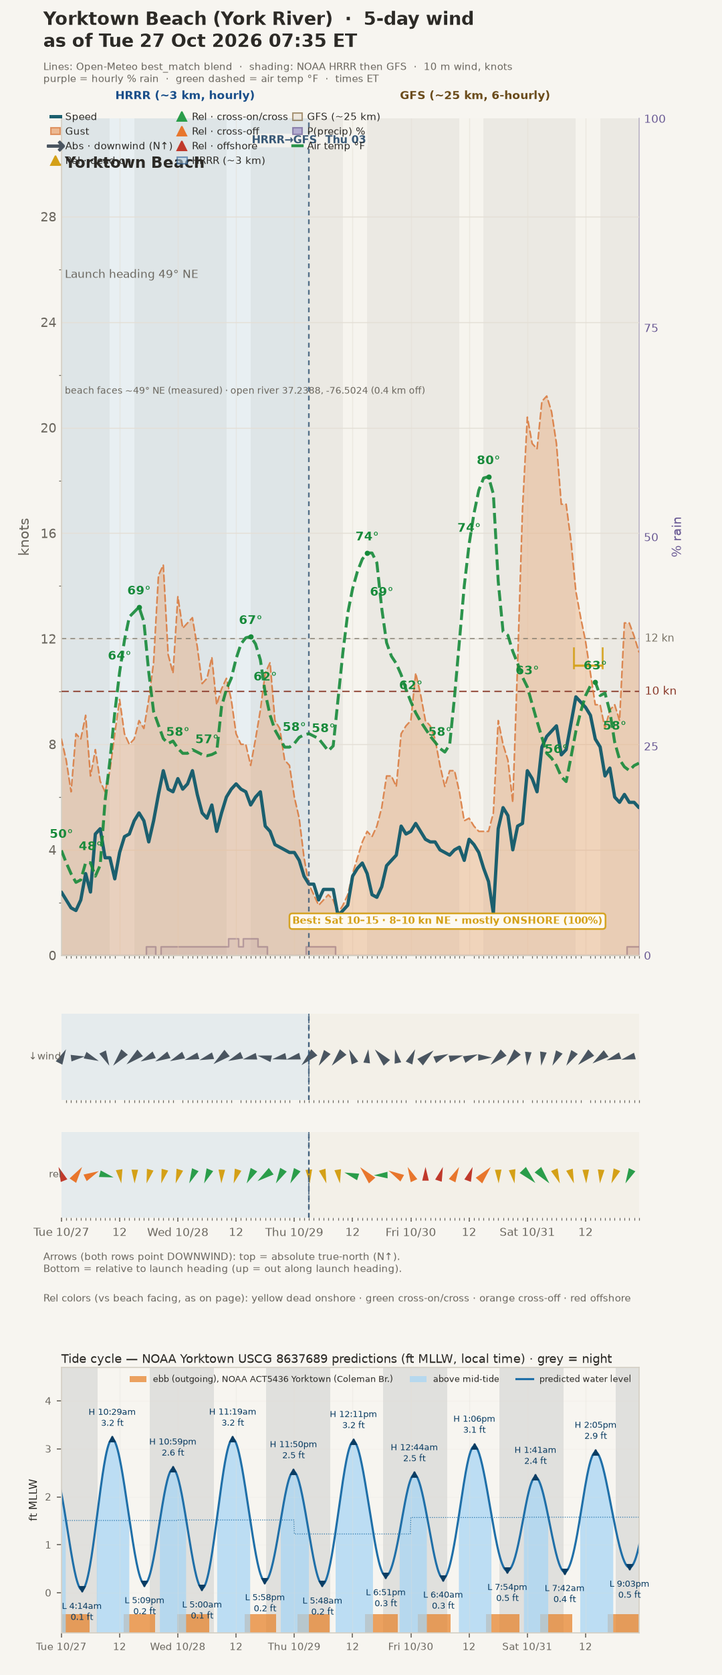
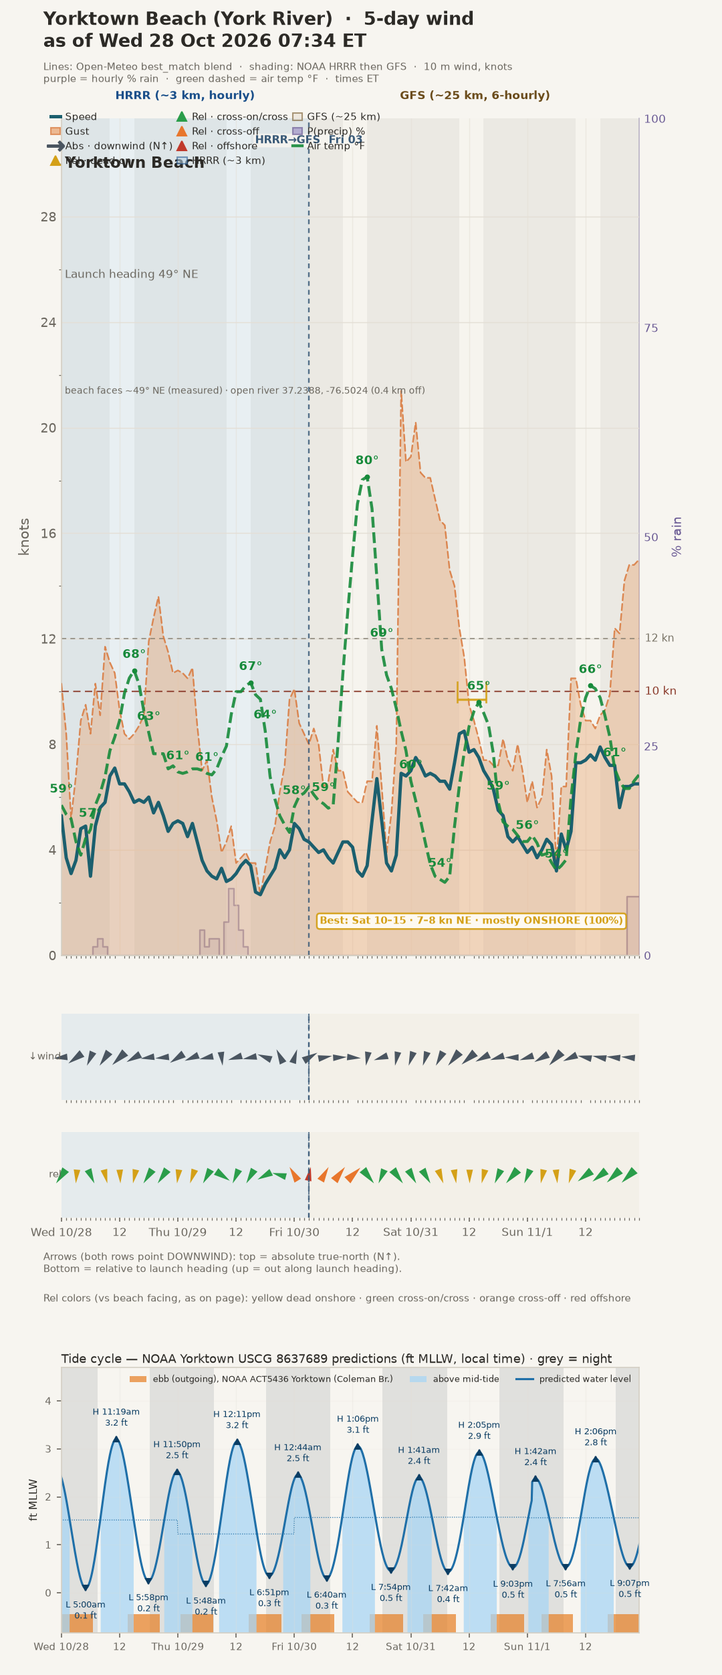
Update wind pages 2026-10-28 07:35

diff --git a/york-river.html b/york-river.html
@@ -7,8 +7,8 @@ table{border-collapse:collapse;font-size:14px}td,th{padding:3px 9px;border-botto
 .warn{background:#fff4e0;border-left:4px solid #d4a017;padding:6px 10px;margin:8px 0}.note{background:#e8f1f8;border-left:4px solid #1f6fa8;padding:6px 10px;margin:8px 0}</style></head><body><main>
 <p><a href="va-lakes-wind.html">&larr; all locations (va-lakes-wind.html)</a> · jump to: <a href="#croaker">Croaker Landing Pier</a> · <a href="#yorktown">Yorktown Beach</a></p>
 <h1>York River · wind + tide · Croaker Landing Pier &amp; Yorktown Beach</h1>
-<div class="sub">Water 63.1°F measured at NOAA Yorktown USCG 8637689, as of Tue 27 Oct 2026 07:30 ET<br>Mark's directions: <b>N best · E good · W maybe/okay · S and SW won't work</b> (blow over land, no-go); at each beach anything dead offshore vs its measured facing is also no-go.<br>
-Data: Open-Meteo best_match (HRRR, then GFS) · as of Tue 27 Oct 2026 07:35 ET</div>
+<div class="sub">Water 63.5°F measured at NOAA Yorktown USCG 8637689, as of Wed 28 Oct 2026 07:24 ET<br>Mark's directions: <b>N best · E good · W maybe/okay · S and SW won't work</b> (blow over land, no-go); at each beach anything dead offshore vs its measured facing is also no-go.<br>
+Data: Open-Meteo best_match (HRRR, then GFS) · as of Wed 28 Oct 2026 07:34 ET</div>
 
 <h2 id="croaker">1 · York River State Park · Croaker Landing Pier</h2>
 <div class="sub">Croaker Landing Pier ramp 37.42719, -76.72458 · <b>possible launch beach (Mark), just S of the pier: 37.42737, -76.72545, faces ~7° N (measured from imagery)</b> · Seining Beach 37.41459, -76.71052 (tides) · forecast target: open river 37.425, -76.700</div>
@@ -18,22 +18,22 @@ Data: Open-Meteo best_match (HRRR, then GFS) · as of Tue 27 Oct 2026 07:35 ET</
 <img src="york-river-16day.png" alt="Croaker Landing Pier 16-day wind + tide chart"></picture>
 <h3>Daily max (knots) + tides</h3>
 <p class="sub">Tides: Seining Beach (NOAA station 8636969 Roane Point, 2.2 mi away) · NOAA CO-OPS predictions, MLLW, local time. Good wind + tide = 8 AM–6 PM hours with wind ≥10 kn, not offshore vs the 7° beach facing and not S/SW, while the tide is above the day's mid-tide level.</p>
-<table><tr><th>Day</th><th>Max wind</th><th>Max gust</th><th>Dir at max</th><th>Hour</th><th>vs beach</th><th>High</th><th>Low</th><th>Mark's rating</th><th>Good wind + tide</th></tr><tr><td>Tue Oct 27</td><td>7.3</td><td>11.9</td><td>E (86°)</td><td>9 PM</td><td style='color:#2a9d4a;font-weight:600'>cross</td><td>12:07 PM 3.9 ft</td><td>5:48 AM 0.0 ft<br>6:44 PM 0.2 ft</td><td style='color:#2a9d4a;font-weight:600'>good (light)</td><td></td></tr><tr><td>Wed Oct 28</td><td>7.1</td><td>11.1</td><td>E (90°)</td><td>12 AM</td><td style='color:#2a9d4a;font-weight:600'>cross</td><td>12:30 AM 3.1 ft<br>12:54 PM 3.9 ft</td><td>6:33 AM 0.0 ft<br>7:33 PM 0.2 ft</td><td style='color:#2a9d4a;font-weight:600'>good (light)</td><td></td></tr><tr><td>Thu Oct 29</td><td>4.5</td><td>10.5</td><td>S (173°)</td><td>10 PM</td><td style='color:#c0392b;font-weight:600'>OFFSHORE</td><td>1:19 AM 3.0 ft<br>1:46 PM 3.8 ft</td><td>7:21 AM 0.1 ft<br>8:28 PM 0.3 ft</td><td style='color:#c0392b;font-weight:600'>no (light)</td><td></td></tr><tr><td>Fri Oct 30</td><td>4.7</td><td>21.0</td><td>N (2°)</td><td>10 PM</td><td style='color:#d4a017;font-weight:600'>onshore</td><td>2:13 AM 2.9 ft<br>2:43 PM 3.7 ft</td><td>8:15 AM 0.2 ft<br>9:29 PM 0.4 ft</td><td style='color:#1e7d36;font-weight:600'>best (light)</td><td></td></tr><tr><td>Sat Oct 31</td><td>7.5</td><td>21.2</td><td>NE (39°)</td><td>10 AM</td><td style='color:#2a9d4a;font-weight:600'>cross-on</td><td>3:12 AM 2.8 ft<br>3:43 PM 3.5 ft</td><td>9:18 AM 0.3 ft<br>10:33 PM 0.4 ft</td><td style='color:#2a9d4a;font-weight:600'>good (light)</td><td></td></tr><tr><td>Sun Nov 01</td><td>8.0</td><td>20.2</td><td>SE (124°)</td><td>2 PM</td><td style='color:#e67e22;font-weight:600'>cross-off</td><td>3:16 AM 2.8 ft<br>3:46 PM 3.3 ft</td><td>9:29 AM 0.4 ft<br>10:37 PM 0.4 ft</td><td style='color:#d4a017;font-weight:600'>maybe (light)</td><td></td></tr><tr><td>Mon Nov 02</td><td>10.4</td><td>24.7</td><td>SE (137°)</td><td>11 AM</td><td style='color:#e67e22;font-weight:600'>cross-off</td><td>4:24 AM 2.8 ft<br>4:54 PM 3.1 ft</td><td>10:42 AM 0.4 ft<br>11:38 PM 0.4 ft</td><td style='color:#d4a017;font-weight:600'>maybe</td><td></td></tr><tr><td>Tue Nov 03</td><td>7.9</td><td>20.8</td><td>NNW (332°)</td><td>3 PM</td><td style='color:#2a9d4a;font-weight:600'>cross-on</td><td>5:40 AM 2.9 ft<br>6:06 PM 3.0 ft</td><td>11:56 AM 0.4 ft</td><td style='color:#2a9d4a;font-weight:600'>good (light)</td><td></td></tr><tr><td>Wed Nov 04</td><td>11.1</td><td>17.9</td><td>NNE (27°)</td><td>5 AM</td><td style='color:#d4a017;font-weight:600'>onshore</td><td>6:49 AM 3.1 ft<br>7:09 PM 3.0 ft</td><td>12:35 AM 0.3 ft<br>1:02 PM 0.4 ft</td><td style='color:#1e7d36;font-weight:600'>best</td><td>✅ 8 AM–10 AM, 4 PM–6 PM</td></tr><tr><td>Thu Nov 05</td><td>7.5</td><td>24.5</td><td>NNE (31°)</td><td>12 AM</td><td style='color:#2a9d4a;font-weight:600'>cross-on</td><td>7:46 AM 3.3 ft<br>8:00 PM 2.9 ft</td><td>1:25 AM 0.3 ft<br>2:01 PM 0.3 ft</td><td style='color:#2a9d4a;font-weight:600'>good (light)</td><td></td></tr><tr><td>Fri Nov 06</td><td>8.2</td><td>17.9</td><td>SW (236°)</td><td>1 PM</td><td style='color:#e67e22;font-weight:600'>cross-off</td><td>8:35 AM 3.4 ft<br>8:47 PM 2.9 ft</td><td>2:11 AM 0.2 ft<br>2:55 PM 0.3 ft</td><td style='color:#c0392b;font-weight:600'>no (light)</td><td></td></tr><tr><td>Sat Nov 07</td><td>4.4</td><td>21.8</td><td>WSW (241°)</td><td>1 PM</td><td style='color:#e67e22;font-weight:600'>cross-off</td><td>9:19 AM 3.5 ft<br>9:30 PM 2.9 ft</td><td>2:55 AM 0.2 ft<br>3:44 PM 0.2 ft</td><td style='color:#c0392b;font-weight:600'>no (light)</td><td></td></tr><tr><td>Sun Nov 08</td><td>6.3</td><td>4.5</td><td>NNE (30°)</td><td>1 PM</td><td style='color:#2a9d4a;font-weight:600'>cross-on</td><td>10:00 AM 3.5 ft<br>10:12 PM 2.8 ft</td><td>3:37 AM 0.1 ft<br>4:28 PM 0.2 ft</td><td style='color:#2a9d4a;font-weight:600'>good (light)</td><td></td></tr><tr><td>Mon Nov 09</td><td>5.2</td><td>3.7</td><td>ENE (70°)</td><td>2 PM</td><td style='color:#2a9d4a;font-weight:600'>cross-on</td><td>10:38 AM 3.5 ft<br>10:51 PM 2.8 ft</td><td>4:17 AM 0.2 ft<br>5:08 PM 0.2 ft</td><td style='color:#2a9d4a;font-weight:600'>good (light)</td><td></td></tr><tr><td>Tue Nov 10</td><td>10.0</td><td>8.9</td><td>SSW (213°)</td><td>2 PM</td><td style='color:#e67e22;font-weight:600'>cross-off</td><td>11:14 AM 3.4 ft<br>11:29 PM 2.7 ft</td><td>4:54 AM 0.2 ft<br>5:45 PM 0.3 ft</td><td style='color:#c0392b;font-weight:600'>no</td><td></td></tr><tr><td>Wed Nov 11</td><td>11.4</td><td>17.7</td><td>NW (313°)</td><td>12 PM</td><td style='color:#2a9d4a;font-weight:600'>cross-on</td><td>11:50 AM 3.3 ft</td><td>5:29 AM 0.3 ft<br>6:22 PM 0.3 ft</td><td style='color:#2a9d4a;font-weight:600'>good</td><td>✅ 11 AM–4 PM</td></tr></table>
-<h3>Good wind + tide windows</h3><ul><li>Wed Nov 04: 8 AM–10 AM, 4 PM–6 PM</li><li>Wed Nov 11: 11 AM–4 PM</li></ul>
+<table><tr><th>Day</th><th>Max wind</th><th>Max gust</th><th>Dir at max</th><th>Hour</th><th>vs beach</th><th>High</th><th>Low</th><th>Mark's rating</th><th>Good wind + tide</th></tr><tr><td>Wed Oct 28</td><td>6.2</td><td>10.5</td><td>ESE (107°)</td><td>7 PM</td><td style='color:#2a9d4a;font-weight:600'>cross</td><td>12:30 AM 3.1 ft<br>12:54 PM 3.9 ft</td><td>6:33 AM 0.0 ft<br>7:33 PM 0.2 ft</td><td style='color:#2a9d4a;font-weight:600'>good (light)</td><td></td></tr><tr><td>Thu Oct 29</td><td>4.9</td><td>8.2</td><td>SSE (164°)</td><td>11 PM</td><td style='color:#e67e22;font-weight:600'>cross-off</td><td>1:19 AM 3.0 ft<br>1:46 PM 3.8 ft</td><td>7:21 AM 0.1 ft<br>8:28 PM 0.3 ft</td><td style='color:#c0392b;font-weight:600'>no (light)</td><td></td></tr><tr><td>Fri Oct 30</td><td>6.9</td><td>22.7</td><td>NNE (16°)</td><td>10 PM</td><td style='color:#d4a017;font-weight:600'>onshore</td><td>2:13 AM 2.9 ft<br>2:43 PM 3.7 ft</td><td>8:15 AM 0.2 ft<br>9:29 PM 0.4 ft</td><td style='color:#1e7d36;font-weight:600'>best (light)</td><td></td></tr><tr><td>Sat Oct 31</td><td>6.2</td><td>18.7</td><td>NE (41°)</td><td>10 AM</td><td style='color:#2a9d4a;font-weight:600'>cross-on</td><td>3:12 AM 2.8 ft<br>3:43 PM 3.5 ft</td><td>9:18 AM 0.3 ft<br>10:33 PM 0.4 ft</td><td style='color:#2a9d4a;font-weight:600'>good (light)</td><td></td></tr><tr><td>Sun Nov 01</td><td>7.2</td><td>14.8</td><td>ESE (114°)</td><td>4 PM</td><td style='color:#2a9d4a;font-weight:600'>cross</td><td>3:16 AM 2.8 ft<br>3:46 PM 3.3 ft</td><td>9:29 AM 0.4 ft<br>10:37 PM 0.4 ft</td><td style='color:#d4a017;font-weight:600'>maybe (light)</td><td></td></tr><tr><td>Mon Nov 02</td><td>7.9</td><td>22.9</td><td>ENE (57°)</td><td>11 PM</td><td style='color:#2a9d4a;font-weight:600'>cross-on</td><td>4:24 AM 2.8 ft<br>4:54 PM 3.1 ft</td><td>10:42 AM 0.4 ft<br>11:38 PM 0.4 ft</td><td style='color:#2a9d4a;font-weight:600'>good (light)</td><td></td></tr><tr><td>Tue Nov 03</td><td>11.3</td><td>28.0</td><td>NE (41°)</td><td>5 AM</td><td style='color:#2a9d4a;font-weight:600'>cross-on</td><td>5:40 AM 2.9 ft<br>6:06 PM 3.0 ft</td><td>11:56 AM 0.4 ft</td><td style='color:#2a9d4a;font-weight:600'>good (light)</td><td></td></tr><tr><td>Wed Nov 04</td><td>10.5</td><td>27.2</td><td>E (91°)</td><td>11 AM</td><td style='color:#2a9d4a;font-weight:600'>cross</td><td>6:49 AM 3.1 ft<br>7:09 PM 3.0 ft</td><td>12:35 AM 0.3 ft<br>1:02 PM 0.4 ft</td><td style='color:#2a9d4a;font-weight:600'>good</td><td>✅ 6 PM–7 PM</td></tr><tr><td>Thu Nov 05</td><td>11.6</td><td>33.2</td><td>SE (138°)</td><td>4 PM</td><td style='color:#e67e22;font-weight:600'>cross-off</td><td>7:46 AM 3.3 ft<br>8:00 PM 2.9 ft</td><td>1:25 AM 0.3 ft<br>2:01 PM 0.3 ft</td><td style='color:#d4a017;font-weight:600'>maybe</td><td>✅ 5 PM–6 PM</td></tr><tr><td>Fri Nov 06</td><td>12.5</td><td>26.0</td><td>SSW (203°)</td><td>2 AM</td><td style='color:#c0392b;font-weight:600'>OFFSHORE</td><td>8:35 AM 3.4 ft<br>8:47 PM 2.9 ft</td><td>2:11 AM 0.2 ft<br>2:55 PM 0.3 ft</td><td style='color:#d4a017;font-weight:600'>maybe</td><td></td></tr><tr><td>Sat Nov 07</td><td>8.8</td><td>21.6</td><td>NNW (347°)</td><td>12 AM</td><td style='color:#d4a017;font-weight:600'>onshore</td><td>9:19 AM 3.5 ft<br>9:30 PM 2.9 ft</td><td>2:55 AM 0.2 ft<br>3:44 PM 0.2 ft</td><td style='color:#1e7d36;font-weight:600'>best (light)</td><td></td></tr><tr><td>Sun Nov 08</td><td>8.8</td><td>23.7</td><td>N (6°)</td><td>12 PM</td><td style='color:#d4a017;font-weight:600'>onshore</td><td>10:00 AM 3.5 ft<br>10:12 PM 2.8 ft</td><td>3:37 AM 0.1 ft<br>4:28 PM 0.2 ft</td><td style='color:#1e7d36;font-weight:600'>best (light)</td><td></td></tr><tr><td>Mon Nov 09</td><td>5.8</td><td>15.4</td><td>NNE (26°)</td><td>11 AM</td><td style='color:#d4a017;font-weight:600'>onshore</td><td>10:38 AM 3.5 ft<br>10:51 PM 2.8 ft</td><td>4:17 AM 0.2 ft<br>5:08 PM 0.2 ft</td><td style='color:#2a9d4a;font-weight:600'>good (light)</td><td></td></tr><tr><td>Tue Nov 10</td><td>5.2</td><td>3.9</td><td>ESE (110°)</td><td>4 PM</td><td style='color:#2a9d4a;font-weight:600'>cross</td><td>11:14 AM 3.4 ft<br>11:29 PM 2.7 ft</td><td>4:54 AM 0.2 ft<br>5:45 PM 0.3 ft</td><td style='color:#2a9d4a;font-weight:600'>good (light)</td><td></td></tr><tr><td>Wed Nov 11</td><td>10.8</td><td>18.9</td><td>ESE (103°)</td><td>8 PM</td><td style='color:#2a9d4a;font-weight:600'>cross</td><td>11:50 AM 3.3 ft</td><td>5:29 AM 0.3 ft<br>6:22 PM 0.3 ft</td><td style='color:#2a9d4a;font-weight:600'>good (light)</td><td></td></tr><tr><td>Thu Nov 12</td><td>9.7</td><td>28.2</td><td>ESE (116°)</td><td>1 AM</td><td style='color:#2a9d4a;font-weight:600'>cross</td><td>12:07 AM 2.6 ft<br>12:28 PM 3.2 ft</td><td>6:03 AM 0.3 ft<br>7:00 PM 0.4 ft</td><td style='color:#d4a017;font-weight:600'>maybe (light)</td><td></td></tr></table>
+<h3>Good wind + tide windows</h3><ul><li>Wed Nov 04: 6 PM–7 PM</li><li>Thu Nov 05: 5 PM–6 PM</li></ul>
 <h3>Map</h3><img src="lake-map-york-river.png" alt="York River SP / Croaker Landing Pier map">
 
 <h2 id="yorktown">2 · Yorktown Beach (Water St, Yorktown)</h2>
 <div class="note"><b>No Yorktown State Park exists; this is Yorktown Beach</b> — York County's public beach on Water St along the Riverwalk, just downriver (SE) of the Coleman Bridge.</div>
 <div class="sub">Beach center 37.2364, -76.5058 · <b>faces ~49° NE</b> (shoreline measured from Esri imagery, ±10°) · forecast target: open river 37.2388, -76.5024 (0.4 km offshore) · tides: NOAA Yorktown USCG 8637689 (harmonic, 6-min predictions) · current: NOAA ACT5436 Yorktown (by the Coleman Bridge)<br>
 With this facing: N and E are cross-onshore (N best, E good per Mark), NE dead onshore, NW cross-shore (good), W cross-off (maybe), S/SW blow off the land (no).</div>
-<div class="warn">Local windsurf blog: best in <b>E/NE on an outgoing (ebb) tide</b> · strongest currents are near the Coleman Bridge; wind against current gets rough, stay down-current of the bridge · parking is <b>free</b>: Riverwalk Landing Parking Terrace, 330 Water St (lower level 3-h limit, upper deck unlimited) and county lots (York Hall, Courthouse, Admin Bldg) — no grass/side-street parking · beach rules: no dogs, alcohol, glass, grills, bonfires; no climbing/fishing on the rocks; Apr 1–Oct 31 groups of 10+ need a permit 10 AM–4 PM weekends; no posted rule on windsurfing found, so give swimmers a wide berth (it is a swimming beach) · rock breakwaters / pocket beaches along the shore · busy boat traffic, the shipping channel and Navy traffic (Naval Weapons Station Yorktown, Coast Guard Training Center) are close offshore · Water 63.1°F measured at NOAA Yorktown USCG 8637689, as of Tue 27 Oct 2026 07:30 ET</div>
+<div class="warn">Local windsurf blog: best in <b>E/NE on an outgoing (ebb) tide</b> · strongest currents are near the Coleman Bridge; wind against current gets rough, stay down-current of the bridge · parking is <b>free</b>: Riverwalk Landing Parking Terrace, 330 Water St (lower level 3-h limit, upper deck unlimited) and county lots (York Hall, Courthouse, Admin Bldg) — no grass/side-street parking · beach rules: no dogs, alcohol, glass, grills, bonfires; no climbing/fishing on the rocks; Apr 1–Oct 31 groups of 10+ need a permit 10 AM–4 PM weekends; no posted rule on windsurfing found, so give swimmers a wide berth (it is a swimming beach) · rock breakwaters / pocket beaches along the shore · busy boat traffic, the shipping channel and Navy traffic (Naval Weapons Station Yorktown, Coast Guard Training Center) are close offshore · Water 63.5°F measured at NOAA Yorktown USCG 8637689, as of Wed 28 Oct 2026 07:24 ET</div>
 <h3>5-day</h3><picture><source media="(max-width:700px) and (orientation:portrait)" srcset="yorktown-beach-5day-portrait.png">
 <img src="yorktown-beach-5day.png" alt="Yorktown Beach 5-day wind + tide chart"></picture><h3>16-day</h3><picture><source media="(max-width:700px) and (orientation:portrait)" srcset="yorktown-beach-16day-portrait.png">
 <img src="yorktown-beach-16day.png" alt="Yorktown Beach 16-day wind + tide chart"></picture>
 <h3>Daily max (knots) + tides + current</h3>
 <p class="sub">Tides: NOAA Yorktown USCG 8637689 predictions, MLLW, local time. Current: NOAA ACT5436 Yorktown max flood/ebb/slack. Good wind + tide = 8 AM–6 PM hours with wind ≥10 kn, Mark's rating not "no" (S/SW and anything offshore of the 49° facing), tide above the day's mid-tide; "(ebb ✔)" = whole window on the outgoing tide (the blog's preference), "(part ebb)" = partly.</p>
-<table><tr><th>Day</th><th>Max wind</th><th>Max gust</th><th>Dir at max</th><th>Hour</th><th>vs beach</th><th>High</th><th>Low</th><th>Current (Coleman Br.)</th><th>Mark's rating</th><th>Good wind + tide</th></tr><tr><td>Tue Oct 27</td><td>7.0</td><td>14.8</td><td>ENE (64°)</td><td>9 PM</td><td style='color:#d4a017;font-weight:600'>onshore</td><td>10:29 AM 3.2 ft<br>10:59 PM 2.6 ft</td><td>4:14 AM 0.1 ft<br>5:09 PM 0.2 ft</td><td>ebb 2:58 AM 2.6 kn<br>slack 5:49 AM<br>flood 8:57 AM 2.5 kn<br>slack 12:51 PM<br>ebb 4:08 PM 2.0 kn<br>slack 7:20 PM<br>flood 9:13 PM 1.0 kn<br>slack 11:43 PM</td><td style='color:#2a9d4a;font-weight:600'>good (light)</td><td></td></tr><tr><td>Wed Oct 28</td><td>7.0</td><td>13.6</td><td>ENE (73°)</td><td>3 AM</td><td style='color:#2a9d4a;font-weight:600'>cross-on</td><td>11:19 AM 3.2 ft<br>11:50 PM 2.5 ft</td><td>5:00 AM 0.1 ft<br>5:58 PM 0.2 ft</td><td>ebb 3:41 AM 2.6 kn<br>slack 6:33 AM<br>flood 9:46 AM 2.5 kn<br>slack 1:40 PM<br>ebb 5:01 PM 2.0 kn<br>slack 8:20 PM<br>flood 10:08 PM 0.9 kn</td><td style='color:#2a9d4a;font-weight:600'>good (light)</td><td></td></tr><tr><td>Thu Oct 29</td><td>4.9</td><td>8.7</td><td>S (189°)</td><td>10 PM</td><td style='color:#e67e22;font-weight:600'>cross-off</td><td>12:11 PM 3.2 ft</td><td>5:48 AM 0.2 ft<br>6:51 PM 0.3 ft</td><td>slack 12:32 AM<br>ebb 4:30 AM 2.4 kn<br>slack 7:23 AM<br>flood 10:39 AM 2.5 kn<br>slack 2:33 PM<br>ebb 5:59 PM 1.9 kn<br>slack 9:24 PM<br>flood 11:06 PM 0.8 kn</td><td style='color:#c0392b;font-weight:600'>no (light)</td><td></td></tr><tr><td>Fri Oct 30</td><td>5.6</td><td>16.9</td><td>NE (56°)</td><td>7 PM</td><td style='color:#d4a017;font-weight:600'>onshore</td><td>12:44 AM 2.5 ft<br>1:06 PM 3.1 ft</td><td>6:40 AM 0.3 ft<br>7:54 PM 0.5 ft</td><td>slack 1:29 AM<br>ebb 5:27 AM 2.2 kn<br>slack 8:18 AM<br>flood 11:31 AM 2.4 kn<br>slack 3:28 PM<br>ebb 6:59 PM 1.9 kn<br>slack 10:25 PM</td><td style='color:#2a9d4a;font-weight:600'>good (light)</td><td></td></tr><tr><td>Sat Oct 31</td><td>9.8</td><td>21.2</td><td>NE (38°)</td><td>10 AM</td><td style='color:#d4a017;font-weight:600'>onshore</td><td>1:41 AM 2.4 ft<br>2:05 PM 2.9 ft</td><td>7:42 AM 0.4 ft<br>9:03 PM 0.5 ft</td><td>flood 12:03 AM 0.8 kn<br>slack 2:35 AM<br>ebb 6:32 AM 1.9 kn<br>slack 9:19 AM<br>flood 12:25 PM 2.2 kn<br>slack 4:27 PM<br>ebb 8:02 PM 1.8 kn<br>slack 11:22 PM</td><td style='color:#2a9d4a;font-weight:600'>good (light)</td><td></td></tr><tr><td>Sun Nov 01</td><td>9.4</td><td>19.2</td><td>ESE (112°)</td><td>4 PM</td><td style='color:#2a9d4a;font-weight:600'>cross-on</td><td>1:42 AM 2.4 ft<br>2:06 PM 2.8 ft</td><td>7:56 AM 0.5 ft<br>9:07 PM 0.5 ft</td><td>flood 1:02 AM 0.8 kn<br>slack 2:50 AM<br>ebb 6:42 AM 1.8 kn<br>slack 9:26 AM<br>flood 12:23 PM 1.9 kn<br>slack 4:28 PM<br>ebb 8:03 PM 1.8 kn<br>slack 11:17 PM</td><td style='color:#2a9d4a;font-weight:600'>good (light)</td><td></td></tr><tr><td>Mon Nov 02</td><td>10.9</td><td>26.4</td><td>SE (136°)</td><td>11 AM</td><td style='color:#2a9d4a;font-weight:600'>cross</td><td>2:46 AM 2.4 ft<br>3:11 PM 2.7 ft</td><td>9:09 AM 0.6 ft<br>10:05 PM 0.5 ft</td><td>flood 1:09 AM 0.9 kn<br>slack 4:09 AM<br>ebb 7:55 AM 1.7 kn<br>slack 10:36 AM<br>flood 1:30 PM 1.6 kn<br>slack 5:31 PM<br>ebb 9:01 PM 1.7 kn</td><td style='color:#d4a017;font-weight:600'>maybe</td><td>✅ 12 PM–1 PM</td></tr><tr><td>Tue Nov 03</td><td>10.6</td><td>23.3</td><td>NE (43°)</td><td>11 PM</td><td style='color:#d4a017;font-weight:600'>onshore</td><td>3:54 AM 2.5 ft<br>4:20 PM 2.6 ft</td><td>10:18 AM 0.6 ft<br>11:00 PM 0.5 ft</td><td>slack 12:10 AM<br>flood 2:23 AM 1.0 kn<br>slack 5:29 AM<br>ebb 9:03 AM 1.7 kn<br>slack 11:53 AM<br>flood 2:45 PM 1.4 kn<br>slack 6:31 PM<br>ebb 9:55 PM 1.7 kn</td><td style='color:#2a9d4a;font-weight:600'>good (light)</td><td></td></tr><tr><td>Wed Nov 04</td><td>14.4</td><td>20.4</td><td>NNE (28°)</td><td>2 PM</td><td style='color:#d4a017;font-weight:600'>onshore</td><td>5:03 AM 2.6 ft<br>5:27 PM 2.5 ft</td><td>11:24 AM 0.5 ft<br>11:50 PM 0.4 ft</td><td>slack 1:02 AM<br>flood 3:35 AM 1.2 kn<br>slack 6:46 AM<br>ebb 10:09 AM 1.7 kn<br>slack 1:15 PM<br>flood 4:01 PM 1.3 kn<br>slack 7:24 PM<br>ebb 10:47 PM 1.7 kn</td><td style='color:#1e7d36;font-weight:600'>best</td><td>✅ 2 PM–7 PM</td></tr><tr><td>Thu Nov 05</td><td>9.0</td><td>27.2</td><td>NE (49°)</td><td>12 AM</td><td style='color:#d4a017;font-weight:600'>onshore</td><td>6:02 AM 2.7 ft<br>6:22 PM 2.5 ft</td><td>12:24 PM 0.4 ft</td><td>slack 1:49 AM<br>flood 4:39 AM 1.4 kn<br>slack 7:55 AM<br>ebb 11:16 AM 1.8 kn<br>slack 2:31 PM<br>flood 5:08 PM 1.1 kn<br>slack 8:08 PM<br>ebb 11:35 PM 1.7 kn</td><td style='color:#2a9d4a;font-weight:600'>good (light)</td><td></td></tr><tr><td>Fri Nov 06</td><td>10.2</td><td>17.7</td><td>SW (235°)</td><td>2 PM</td><td style='color:#c0392b;font-weight:600'>OFFSHORE</td><td>6:50 AM 2.9 ft<br>7:07 PM 2.5 ft</td><td>12:35 AM 0.3 ft<br>1:18 PM 0.4 ft</td><td>slack 2:31 AM<br>flood 5:32 AM 1.7 kn<br>slack 8:56 AM<br>ebb 12:20 PM 1.9 kn<br>slack 3:38 PM<br>flood 5:59 PM 1.0 kn<br>slack 8:43 PM</td><td style='color:#c0392b;font-weight:600'>no</td><td></td></tr><tr><td>Sat Nov 07</td><td>5.7</td><td>22.0</td><td>WSW (243°)</td><td>12 PM</td><td style='color:#c0392b;font-weight:600'>OFFSHORE</td><td>7:32 AM 3.0 ft<br>7:49 PM 2.5 ft</td><td>1:17 AM 0.3 ft<br>2:07 PM 0.3 ft</td><td>ebb 12:18 AM 1.9 kn<br>slack 3:08 AM<br>flood 6:16 AM 2.0 kn<br>slack 9:52 AM<br>ebb 1:13 PM 1.9 kn<br>slack 4:35 PM<br>flood 6:37 PM 0.8 kn<br>slack 9:11 PM</td><td style='color:#c0392b;font-weight:600'>no (light)</td><td></td></tr><tr><td>Sun Nov 08</td><td>8.1</td><td>9.1</td><td>NE (42°)</td><td>11 AM</td><td style='color:#d4a017;font-weight:600'>onshore</td><td>8:13 AM 3.0 ft<br>8:31 PM 2.4 ft</td><td>1:58 AM 0.3 ft<br>2:52 PM 0.3 ft</td><td>ebb 12:56 AM 2.0 kn<br>slack 3:43 AM<br>flood 6:54 AM 2.1 kn<br>slack 10:42 AM<br>ebb 1:57 PM 1.9 kn<br>slack 5:24 PM<br>flood 7:08 PM 0.7 kn<br>slack 9:36 PM</td><td style='color:#2a9d4a;font-weight:600'>good (light)</td><td></td></tr><tr><td>Mon Nov 09</td><td>6.5</td><td>5.8</td><td>ENE (57°)</td><td>12 PM</td><td style='color:#d4a017;font-weight:600'>onshore</td><td>8:53 AM 2.9 ft<br>9:12 PM 2.3 ft</td><td>2:36 AM 0.3 ft<br>3:32 PM 0.3 ft</td><td>ebb 1:31 AM 2.1 kn<br>slack 4:19 AM<br>flood 7:30 AM 2.2 kn<br>slack 11:27 AM<br>ebb 2:36 PM 1.7 kn<br>slack 6:06 PM<br>flood 7:37 PM 0.5 kn<br>slack 10:04 PM</td><td style='color:#2a9d4a;font-weight:600'>good (light)</td><td></td></tr><tr><td>Tue Nov 10</td><td>11.4</td><td>9.1</td><td>SSW (212°)</td><td>2 PM</td><td style='color:#c0392b;font-weight:600'>OFFSHORE</td><td>9:33 AM 2.9 ft<br>9:54 PM 2.3 ft</td><td>3:14 AM 0.3 ft<br>4:09 PM 0.3 ft</td><td>ebb 2:07 AM 2.0 kn<br>slack 4:56 AM<br>flood 8:05 AM 2.1 kn<br>slack 12:07 PM<br>ebb 3:15 PM 1.6 kn<br>slack 6:44 PM<br>flood 8:12 PM 0.5 kn<br>slack 10:40 PM</td><td style='color:#c0392b;font-weight:600'>no</td><td></td></tr><tr><td>Wed Nov 11</td><td>13.1</td><td>16.5</td><td>NW (322°)</td><td>2 PM</td><td style='color:#2a9d4a;font-weight:600'>cross</td><td>10:12 AM 2.8 ft<br>10:36 PM 2.2 ft</td><td>3:50 AM 0.3 ft<br>4:45 PM 0.4 ft</td><td>ebb 2:45 AM 1.9 kn<br>slack 5:34 AM<br>flood 8:42 AM 1.9 kn<br>slack 12:44 PM<br>ebb 3:54 PM 1.4 kn<br>slack 7:22 PM<br>flood 8:54 PM 0.5 kn<br>slack 11:26 PM</td><td style='color:#2a9d4a;font-weight:600'>good</td><td>✅ 9 AM–2 PM (part ebb)</td></tr></table>
-<h3>Good wind + tide windows</h3><ul><li>Mon Nov 02: 12 PM–1 PM</li><li>Wed Nov 04: 2 PM–7 PM</li><li>Wed Nov 11: 9 AM–2 PM (part ebb)</li></ul>
+<table><tr><th>Day</th><th>Max wind</th><th>Max gust</th><th>Dir at max</th><th>Hour</th><th>vs beach</th><th>High</th><th>Low</th><th>Current (Coleman Br.)</th><th>Mark's rating</th><th>Good wind + tide</th></tr><tr><td>Wed Oct 28</td><td>7.1</td><td>13.6</td><td>NE (48°)</td><td>11 AM</td><td style='color:#d4a017;font-weight:600'>onshore</td><td>11:19 AM 3.2 ft<br>11:50 PM 2.5 ft</td><td>5:00 AM 0.1 ft<br>5:58 PM 0.2 ft</td><td>ebb 3:41 AM 2.6 kn<br>slack 6:33 AM<br>flood 9:46 AM 2.5 kn<br>slack 1:40 PM<br>ebb 5:01 PM 2.0 kn<br>slack 8:20 PM<br>flood 10:08 PM 0.9 kn</td><td style='color:#2a9d4a;font-weight:600'>good (light)</td><td></td></tr><tr><td>Thu Oct 29</td><td>5.1</td><td>10.9</td><td>ENE (57°)</td><td>12 AM</td><td style='color:#d4a017;font-weight:600'>onshore</td><td>12:11 PM 3.2 ft</td><td>5:48 AM 0.2 ft<br>6:51 PM 0.3 ft</td><td>slack 12:32 AM<br>ebb 4:30 AM 2.4 kn<br>slack 7:23 AM<br>flood 10:39 AM 2.5 kn<br>slack 2:33 PM<br>ebb 5:59 PM 1.9 kn<br>slack 9:24 PM<br>flood 11:06 PM 0.8 kn</td><td style='color:#2a9d4a;font-weight:600'>good (light)</td><td></td></tr><tr><td>Fri Oct 30</td><td>6.9</td><td>21.4</td><td>NNE (16°)</td><td>10 PM</td><td style='color:#2a9d4a;font-weight:600'>cross-on</td><td>12:44 AM 2.5 ft<br>1:06 PM 3.1 ft</td><td>6:40 AM 0.3 ft<br>7:54 PM 0.5 ft</td><td>slack 1:29 AM<br>ebb 5:27 AM 2.2 kn<br>slack 8:18 AM<br>flood 11:31 AM 2.4 kn<br>slack 3:28 PM<br>ebb 6:59 PM 1.9 kn<br>slack 10:25 PM</td><td style='color:#1e7d36;font-weight:600'>best (light)</td><td></td></tr><tr><td>Sat Oct 31</td><td>8.5</td><td>20.2</td><td>NE (47°)</td><td>11 AM</td><td style='color:#d4a017;font-weight:600'>onshore</td><td>1:41 AM 2.4 ft<br>2:05 PM 2.9 ft</td><td>7:42 AM 0.4 ft<br>9:03 PM 0.5 ft</td><td>flood 12:03 AM 0.8 kn<br>slack 2:35 AM<br>ebb 6:32 AM 1.9 kn<br>slack 9:19 AM<br>flood 12:25 PM 2.2 kn<br>slack 4:27 PM<br>ebb 8:02 PM 1.8 kn<br>slack 11:22 PM</td><td style='color:#2a9d4a;font-weight:600'>good (light)</td><td></td></tr><tr><td>Sun Nov 01</td><td>7.9</td><td>15.0</td><td>E (101°)</td><td>3 PM</td><td style='color:#2a9d4a;font-weight:600'>cross-on</td><td>1:42 AM 2.4 ft<br>2:06 PM 2.8 ft</td><td>7:56 AM 0.5 ft<br>9:07 PM 0.5 ft</td><td>flood 1:02 AM 0.8 kn<br>slack 2:50 AM<br>ebb 6:42 AM 1.8 kn<br>slack 9:26 AM<br>flood 12:23 PM 1.9 kn<br>slack 4:28 PM<br>ebb 8:03 PM 1.8 kn<br>slack 11:17 PM</td><td style='color:#2a9d4a;font-weight:600'>good (light)</td><td></td></tr><tr><td>Mon Nov 02</td><td>10.3</td><td>22.2</td><td>ENE (58°)</td><td>11 PM</td><td style='color:#d4a017;font-weight:600'>onshore</td><td>2:46 AM 2.4 ft<br>3:11 PM 2.7 ft</td><td>9:09 AM 0.6 ft<br>10:05 PM 0.5 ft</td><td>flood 1:09 AM 0.9 kn<br>slack 4:09 AM<br>ebb 7:55 AM 1.7 kn<br>slack 10:36 AM<br>flood 1:30 PM 1.6 kn<br>slack 5:31 PM<br>ebb 9:01 PM 1.7 kn</td><td style='color:#2a9d4a;font-weight:600'>good (light)</td><td></td></tr><tr><td>Tue Nov 03</td><td>14.2</td><td>29.9</td><td>NE (44°)</td><td>4 AM</td><td style='color:#d4a017;font-weight:600'>onshore</td><td>3:54 AM 2.5 ft<br>4:20 PM 2.6 ft</td><td>10:18 AM 0.6 ft<br>11:00 PM 0.5 ft</td><td>slack 12:10 AM<br>flood 2:23 AM 1.0 kn<br>slack 5:29 AM<br>ebb 9:03 AM 1.7 kn<br>slack 11:53 AM<br>flood 2:45 PM 1.4 kn<br>slack 6:31 PM<br>ebb 9:55 PM 1.7 kn</td><td style='color:#2a9d4a;font-weight:600'>good</td><td>✅ 3 PM–7 PM</td></tr><tr><td>Wed Nov 04</td><td>11.3</td><td>28.8</td><td>E (92°)</td><td>11 AM</td><td style='color:#2a9d4a;font-weight:600'>cross-on</td><td>5:03 AM 2.6 ft<br>5:27 PM 2.5 ft</td><td>11:24 AM 0.5 ft<br>11:50 PM 0.4 ft</td><td>slack 1:02 AM<br>flood 3:35 AM 1.2 kn<br>slack 6:46 AM<br>ebb 10:09 AM 1.7 kn<br>slack 1:15 PM<br>flood 4:01 PM 1.3 kn<br>slack 7:24 PM<br>ebb 10:47 PM 1.7 kn</td><td style='color:#2a9d4a;font-weight:600'>good</td><td>✅ 2 PM–7 PM</td></tr><tr><td>Thu Nov 05</td><td>12.7</td><td>33.8</td><td>SE (139°)</td><td>2 PM</td><td style='color:#2a9d4a;font-weight:600'>cross</td><td>6:02 AM 2.7 ft<br>6:22 PM 2.5 ft</td><td>12:24 PM 0.4 ft</td><td>slack 1:49 AM<br>flood 4:39 AM 1.4 kn<br>slack 7:55 AM<br>ebb 11:16 AM 1.8 kn<br>slack 2:31 PM<br>flood 5:08 PM 1.1 kn<br>slack 8:08 PM<br>ebb 11:35 PM 1.7 kn</td><td style='color:#d4a017;font-weight:600'>maybe</td><td>✅ 4 PM–7 PM</td></tr><tr><td>Fri Nov 06</td><td>14.5</td><td>27.6</td><td>SSW (211°)</td><td>3 AM</td><td style='color:#c0392b;font-weight:600'>OFFSHORE</td><td>6:50 AM 2.9 ft<br>7:07 PM 2.5 ft</td><td>12:35 AM 0.3 ft<br>1:18 PM 0.4 ft</td><td>slack 2:31 AM<br>flood 5:32 AM 1.7 kn<br>slack 8:56 AM<br>ebb 12:20 PM 1.9 kn<br>slack 3:38 PM<br>flood 5:59 PM 1.0 kn<br>slack 8:43 PM</td><td style='color:#d4a017;font-weight:600'>maybe</td><td>✅ 4 PM–5 PM</td></tr><tr><td>Sat Nov 07</td><td>10.0</td><td>22.2</td><td>N (352°)</td><td>12 AM</td><td style='color:#2a9d4a;font-weight:600'>cross-on</td><td>7:32 AM 3.0 ft<br>7:49 PM 2.5 ft</td><td>1:17 AM 0.3 ft<br>2:07 PM 0.3 ft</td><td>ebb 12:18 AM 1.9 kn<br>slack 3:08 AM<br>flood 6:16 AM 2.0 kn<br>slack 9:52 AM<br>ebb 1:13 PM 1.9 kn<br>slack 4:35 PM<br>flood 6:37 PM 0.8 kn<br>slack 9:11 PM</td><td style='color:#1e7d36;font-weight:600'>best (light)</td><td></td></tr><tr><td>Sun Nov 08</td><td>10.3</td><td>24.3</td><td>NNE (15°)</td><td>11 AM</td><td style='color:#2a9d4a;font-weight:600'>cross-on</td><td>8:13 AM 3.0 ft<br>8:31 PM 2.4 ft</td><td>1:58 AM 0.3 ft<br>2:52 PM 0.3 ft</td><td>ebb 12:56 AM 2.0 kn<br>slack 3:43 AM<br>flood 6:54 AM 2.1 kn<br>slack 10:42 AM<br>ebb 1:57 PM 1.9 kn<br>slack 5:24 PM<br>flood 7:08 PM 0.7 kn<br>slack 9:36 PM</td><td style='color:#1e7d36;font-weight:600'>best</td><td>✅ 11 AM–12 PM (ebb ✔)</td></tr><tr><td>Mon Nov 09</td><td>7.5</td><td>15.4</td><td>NNE (31°)</td><td>11 AM</td><td style='color:#d4a017;font-weight:600'>onshore</td><td>8:53 AM 2.9 ft<br>9:12 PM 2.3 ft</td><td>2:36 AM 0.3 ft<br>3:32 PM 0.3 ft</td><td>ebb 1:31 AM 2.1 kn<br>slack 4:19 AM<br>flood 7:30 AM 2.2 kn<br>slack 11:27 AM<br>ebb 2:36 PM 1.7 kn<br>slack 6:06 PM<br>flood 7:37 PM 0.5 kn<br>slack 10:04 PM</td><td style='color:#2a9d4a;font-weight:600'>good (light)</td><td></td></tr><tr><td>Tue Nov 10</td><td>6.6</td><td>5.4</td><td>E (95°)</td><td>4 PM</td><td style='color:#2a9d4a;font-weight:600'>cross-on</td><td>9:33 AM 2.9 ft<br>9:54 PM 2.3 ft</td><td>3:14 AM 0.3 ft<br>4:09 PM 0.3 ft</td><td>ebb 2:07 AM 2.0 kn<br>slack 4:56 AM<br>flood 8:05 AM 2.1 kn<br>slack 12:07 PM<br>ebb 3:15 PM 1.6 kn<br>slack 6:44 PM<br>flood 8:12 PM 0.5 kn<br>slack 10:40 PM</td><td style='color:#2a9d4a;font-weight:600'>good (light)</td><td></td></tr><tr><td>Wed Nov 11</td><td>12.8</td><td>17.3</td><td>E (99°)</td><td>7 PM</td><td style='color:#2a9d4a;font-weight:600'>cross-on</td><td>10:12 AM 2.8 ft<br>10:36 PM 2.2 ft</td><td>3:50 AM 0.3 ft<br>4:45 PM 0.4 ft</td><td>ebb 2:45 AM 1.9 kn<br>slack 5:34 AM<br>flood 8:42 AM 1.9 kn<br>slack 12:44 PM<br>ebb 3:54 PM 1.4 kn<br>slack 7:22 PM<br>flood 8:54 PM 0.5 kn<br>slack 11:26 PM</td><td style='color:#2a9d4a;font-weight:600'>good</td><td></td></tr><tr><td>Thu Nov 12</td><td>10.7</td><td>34.0</td><td>SSW (213°)</td><td>6 PM</td><td style='color:#c0392b;font-weight:600'>OFFSHORE</td><td>10:52 AM 2.6 ft<br>11:17 PM 2.1 ft</td><td>4:26 AM 0.4 ft<br>5:20 PM 0.4 ft</td><td>ebb 3:28 AM 1.6 kn<br>slack 6:15 AM<br>flood 9:21 AM 1.7 kn<br>slack 1:18 PM<br>ebb 4:36 PM 1.3 kn<br>slack 8:02 PM<br>flood 9:41 PM 0.6 kn</td><td style='color:#c0392b;font-weight:600'>no</td><td></td></tr></table>
+<h3>Good wind + tide windows</h3><ul><li>Tue Nov 03: 3 PM–7 PM</li><li>Wed Nov 04: 2 PM–7 PM</li><li>Thu Nov 05: 4 PM–7 PM</li><li>Fri Nov 06: 4 PM–5 PM</li><li>Sun Nov 08: 11 AM–12 PM (ebb ✔)</li></ul>
 <h3>Map</h3><img src="lake-map-yorktown-beach.png" alt="Yorktown Beach map">
 <p class="sub">Chart arrow colors are relative to each beach's measured facing (the chart colors don't apply Mark's S/SW no-go; the tables do).</p>
 <p><a href="va-lakes-wind.html">&larr; back to va-lakes-wind.html</a></p></main></body></html>
